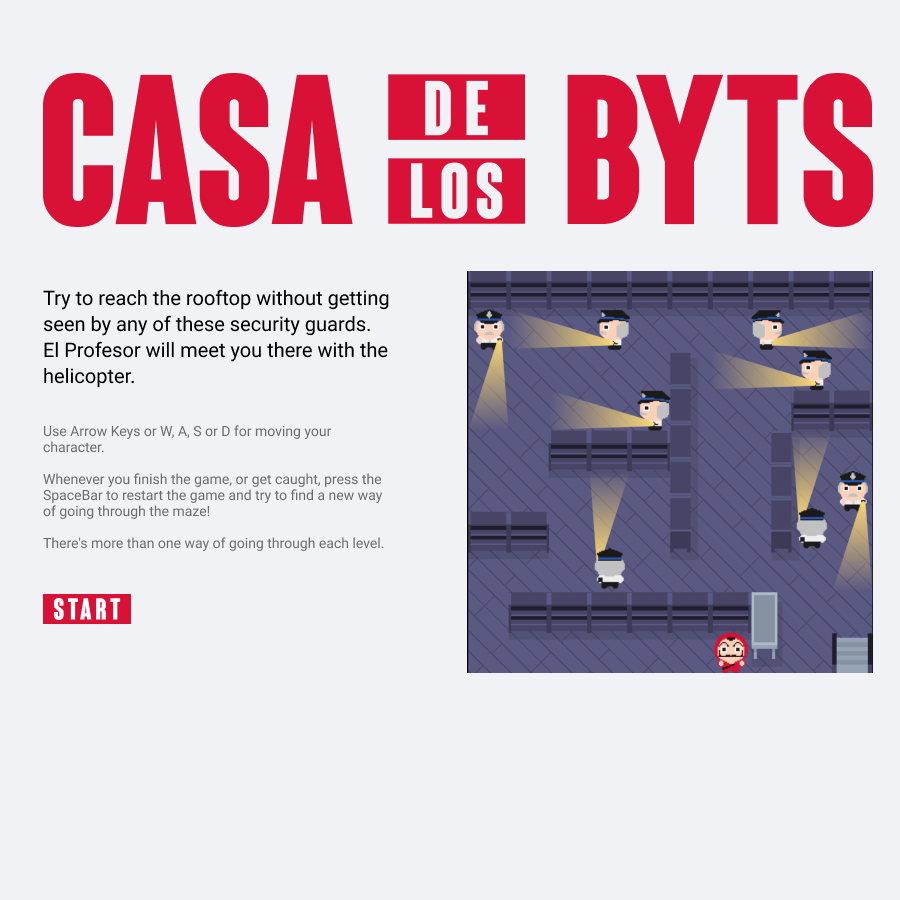
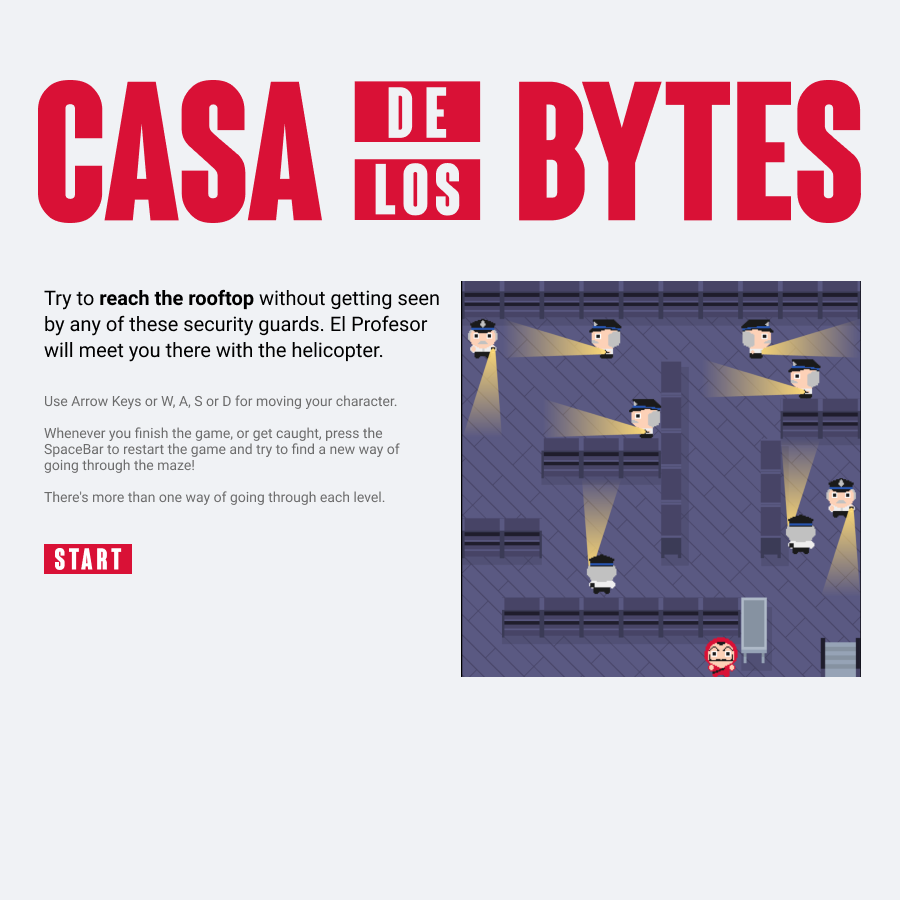
Small updates. Change background color. Changed readme Fixed Broken image. Updated start page image

Changed region(s): [[0.0311, 0.28, 0.9956, 0.7778], [0.0311, 0.0622, 0.9956, 0.2489]]

diff --git a/index.css b/index.css
@@ -5,7 +5,7 @@
 }
 
 body {
-  background-color: black;
+  background-color: #f2f2f5;
   font-family: "Roboto", sans-serif;
   margin: 0 auto;
 }
@@ -23,6 +23,6 @@ body {
   left: 50%;
   transform: translateX(-50%);
 
-  width: 600px;
-  height: 600px;
+  width: 800px;
+  height: 800px;
 }

diff --git a/js/constant.js b/js/constant.js
@@ -1,5 +1,5 @@
-const WIDTH = 600;
-const HEIGHT = 600;
+const WIDTH = 800;
+const HEIGHT = 800;
 const gridSize = WIDTH / 10;
 const lastColumnCell = HEIGHT - gridSize;
 const lastRowCell = WIDTH - gridSize;

diff --git a/README.md b/README.md
@@ -42,7 +42,7 @@ The guards are the real trouble makers in this game. There are guards on every l
 The guards have a different "size". Originally they were thought with the same size of the player - 100x100, but then I would have to figure out how to get a "field of view" to them. Creating a guard with a light already in the image turned out to be the easiest, most sensible solution for the time restraint.
 Here, it is important to define this Object's dimensions, and it's action area, because it's important for whoever is playing the game to immediately know where the thief can go without getting caught.
 
-![example of Guard](https://github.com/itstheandre/Casa-de-los-bytes/blob/master/assets/characters/light_guard/guard-right-light.png)
+![example of Guard](https://github.com/itstheandre/Casa-de-los-bytes/blob/master/assets/characters/guard-right-light.png)
 
 ### GuardExtensions
 
